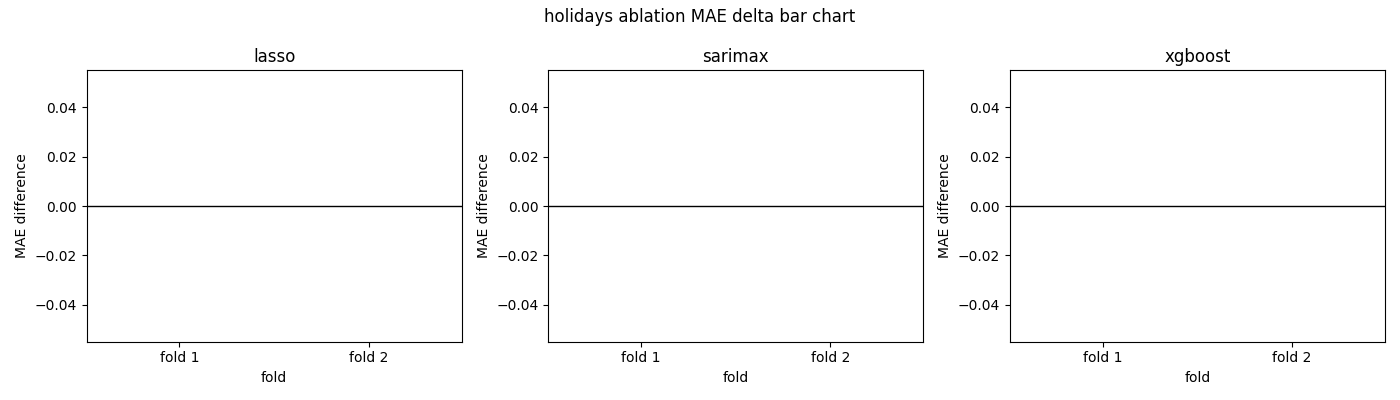
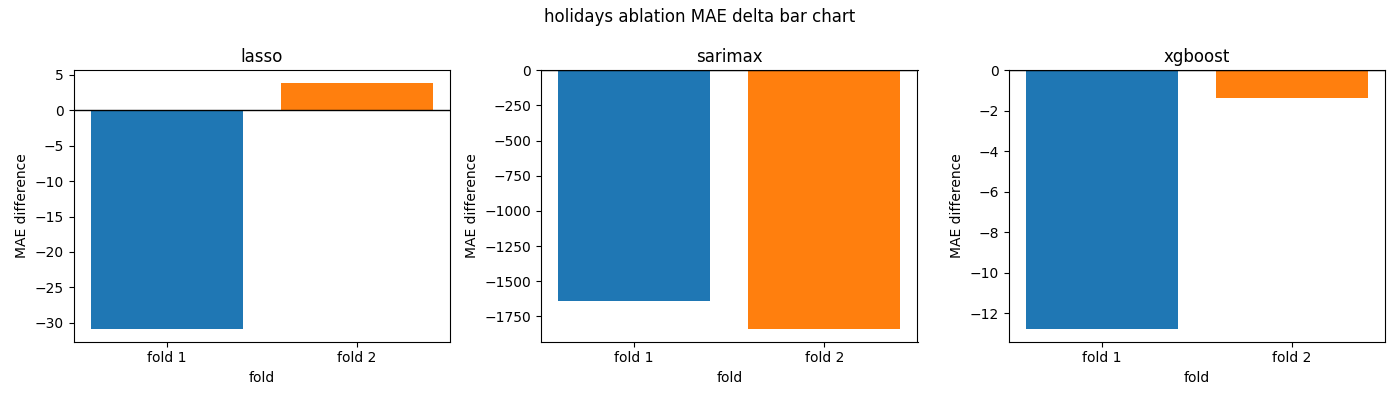
feat: permutation feature importance ranked bar charts implemented across lasso and XGBoost (#8)

diff --git a/scripts/run_experiments.py b/scripts/run_experiments.py
@@ -1,5 +1,5 @@
 from src.dataset.load_save import load_csv, load_metrics
-from src.analysis.feature_analysis import ablation_plots, uplifts, permutation_values
+from src.analysis.feature_analysis import ablation_plots, uplifts, permutation_values, permutation_plot
 from src.analysis.impute_analysis import impute_analysis_plots
 from src.analysis.tuning_analysis import delta_plots, tuning_residuals
 from src.models.tuning import read_configuration
@@ -30,19 +30,12 @@ def run(impute_analysis_path="data/sales_globally_imputed.csv", data_path="data/
     ABLATION_FEATURE_GROUPS = { # feature groups for ablation experiments
     "lags": [c for c in features if c.startswith("sales_lag_")],
     "rolls": [c for c in features if c.startswith("sales_roll")],
-    "calendar": [c for c in features if c.startswith(("dow_", "month_"))],
+    "calendar": [c for c in features if c.startswith(("dow_", "month_", "doy_"))],
     "events": [c for c in features if c.startswith(("internal_events_", "internal_event_", "external_events_", "external_event_"))],
-    "holidays": [c for c in features if c.startswith(("holidays_", "holidays_"))],
+    "holidays": [c for c in features if c.startswith("holiday__")],
     "weather": [c for c in features if c.startswith(("precipitation_", "temperature_", "wind_"))],
     }
-
-    # PERMUTATION_FEATURE_GROUPS = { # feature groups for PFI experiments
-    # "calendar": [c for c in features if not c.startswith(("dow_", "month_"))],
-    # "events": [c for c in features if not c.startswith(("internal_events_", "internal_event_", "external_events_", "external_event_"))],
-    # "holidays": [c for c in features if not c.startswith(("holidays_", "holidays_"))],
-    # "weather": [c for c in features if not c.startswith(("precipitation_", "temperature_", "wind_"))],
-    # }
-
+    
     metrics_ablations = {group_name: [] for group_name in ABLATION_FEATURE_GROUPS}
 
 
@@ -68,15 +61,17 @@ def run(impute_analysis_path="data/sales_globally_imputed.csv", data_path="data/
         # feature analysis
         # grouped ablation experiments
         for group_name, feature_group in ABLATION_FEATURE_GROUPS.items():
-            _, ablation_metrics = backtest(df, kind, feature_group, params, target)
+            ablated_features = [c for c in features if c not in feature_group]
+            _, ablation_metrics = backtest(df, kind, ablated_features, params, target)
             metrics_ablations[group_name].append(ablation_metrics)
 
         # grouped PFI experiments
         train, test = time_split(df)
-        fitted_model, _, X_test, y_test = fit_model(train, test, kind, features, target)
+        fitted_model, _, X_test, y_test = fit_model(train, test, kind, features, target, params)
         if kind == "lasso" or kind == "xgboost":
             permutation_table = permutation_values(fitted_model, X_test, y_test)
             save_results(permutation_table, "permutation_values")
+            permutation_plot(permutation_table, "feature_analysis_figures", kind)
         else:
             pass
             

diff --git a/src/models/tuning.py b/src/models/tuning.py
@@ -65,25 +65,6 @@ def grid_search(train: pd.DataFrame,
            horizon_days = 28
            min_training_days = 197
            for train_mask, test_mask in rolling_splits(dates, horizon_days, min_training_days): 
-                    #  model = make_estimator(X.loc[train_mask], y.loc[train_mask], kind, params)
-                    #  if kind == "sarimax":
-                    #       # results = model.fit()  # data is passed when model is constructed
-                    #       results, diagnostics = fit_sarimax_model(model)
-                    #       print(diagnostics)
-                    #       if not diagnostics.get("converged"):
-                    #            failed_to_converge = True
-                    #            break
-                    #       drop_cols = [c for c in X.columns if c.startswith("sales_lag") or c.startswith("sales_roll")] # SARIMAX has built-in exog
-                    #       X_sarimax = X.drop(columns=drop_cols)
-                    #       prediction = results.get_forecast(steps=len(X_sarimax.loc[test_mask]), exog=X_sarimax.loc[test_mask]).predicted_mean
-
-                    #  elif kind == "xgboost": # early stopping
-                    #      model.fit(X.loc[train_mask], y.loc[train_mask], eval_set=[(X.loc[test_mask], y.loc[test_mask])], verbose=False)
-                    #      prediction = model.predict(X.loc[test_mask])
-
-                    #  elif kind == "lasso":
-                    #       model.fit(X.loc[train_mask], y.loc[train_mask])
-                    #       prediction = model.predict(X.loc[test_mask])
                     fitted_model, _, X_test, y_test = fit_model(train.loc[train_mask], train.loc[test_mask], kind, features, target, params)
                     preds = predict_model(X_test, kind, fitted_model)
                     fold_scores.append(mae(y_test, preds))

diff --git a/src/analysis/feature_analysis.py b/src/analysis/feature_analysis.py
@@ -60,7 +60,23 @@ def permutation_values(fitted_model: Any,
     return out
 
 
+def permutation_plot(permutation_values: pd.DataFrame,
+                     folder: str,
+                     model: str,
+                     top_k: int=15) -> None:
+    '''
+    Places PFI values into a ranked bar chart
+    '''
+    # take the top 15 features
+    permutation_values = permutation_values.sort_values("mae_increase_mean", ascending=False).head(top_k)
+    fig, ax = plt.subplots()
+    ax.barh(permutation_values["feature"][::-1], permutation_values["mae_increase_mean"][::-1],
+            xerr=(permutation_values["mae_increase_std"][::-1]))
     
+    ax.set_title(f"PFI mean and std MAE increase ranked bar chart ({model})")
+    ax.set_xlabel("Increase in MAE after permutation")
+    ax.grid()
+    save_figure(fig, f"PFI_plot_{model}", folder)
 
 def uplifts(df: pd.DataFrame, 
             factor: str, 

diff --git a/src/models/training.py b/src/models/training.py
@@ -108,6 +108,9 @@ def fit_model(train: pd.DataFrame,
     '''
     Fits given model to training dataset
     '''
+    if not features:
+        raise ValueError("fit_model() received an empty feature list")
+
     X_train, y_train = train[features], train[target] # manual split
     X_test, y_test = test[features], test[target]
     model = make_estimator(X_train, y_train, kind, params)
